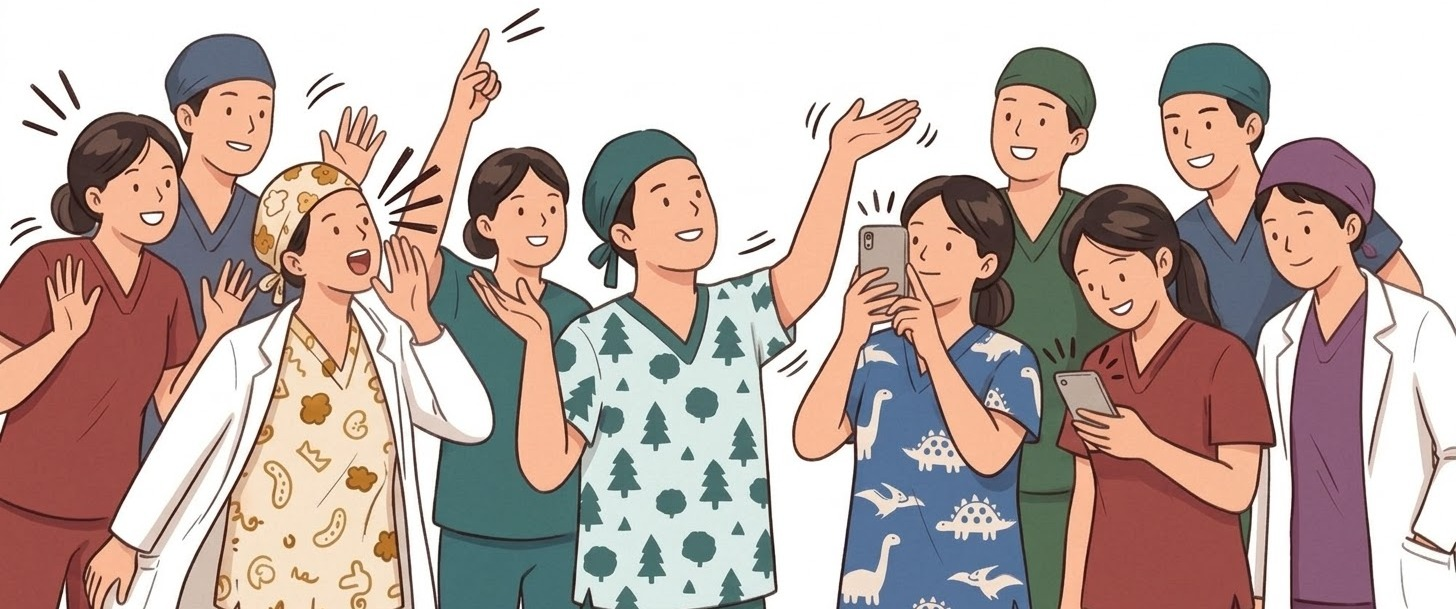
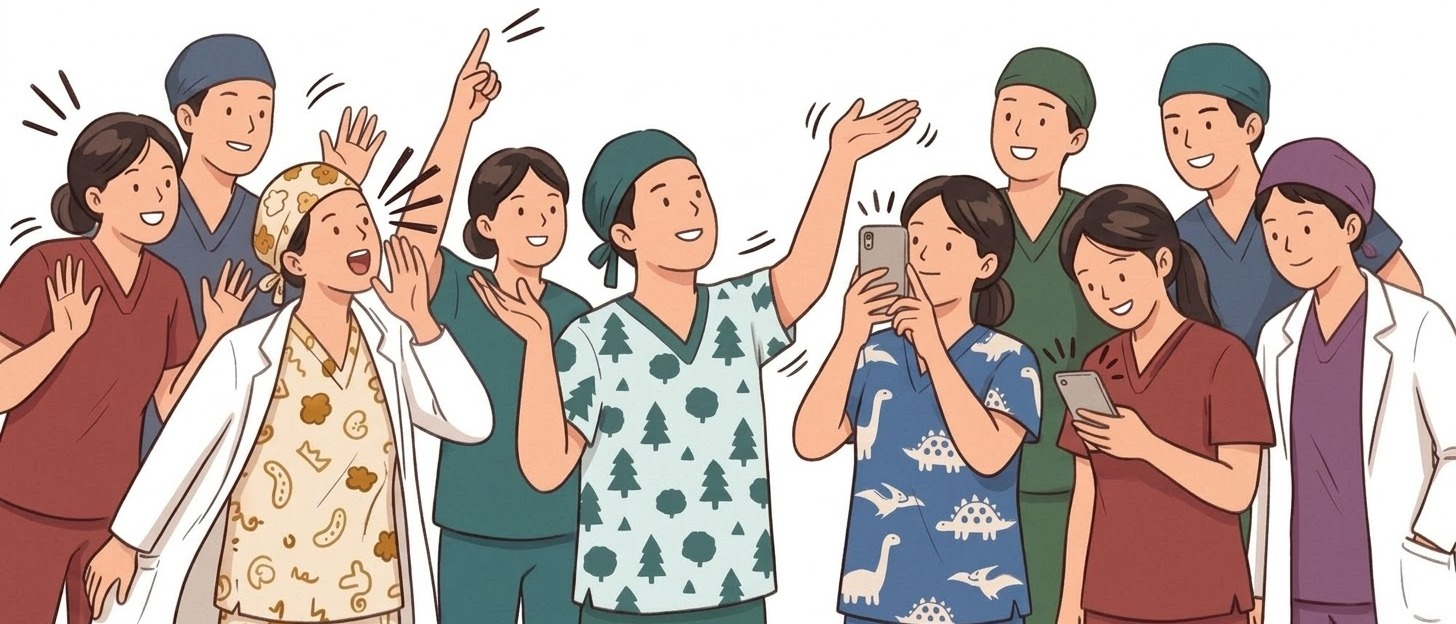
立牌：@fafa070 和碼之間扣掉透明的靜區，QR 因此走到貼齊
使用者：「間距比上面多一點　可以再縮看看」。那一段有 4.75 mm 是碼的
四格靜區（透明、規範不可收），margin 上看不到它。ID下 改成看得到的
間距、CSS 自己扣掉靜區，省下來的正好讓碼長到 43.9 mm ＝ 那一行的寬度。
插圖那一條從 41.0 長到 42.0 mm，重裁 1456×624。

Claude-Session: https://claude.ai/code/session_015pws33pweH9W1p24QXdbUV

diff --git a/preview/line-stand/index.html b/preview/line-stand/index.html
@@ -54,11 +54,11 @@ code{font-size:.86em;background:#dfe3e4;border-radius:4px;padding:.05em .35em}
    ⚠⚠ 底下那一條是**相鄰兄弟**選擇器 —— 它蓋掉 .qr 自己的 .04，所以多這一行實際只花
    .035 + 1.5×.038 + .018 − .04 ＝ 卡寬的 7.0%（面板每次印）。 */
 .card .cue.id{margin-top:calc(var(--cw) * 0.005)}
-.card .cue.id + .qr{margin-top:calc(var(--cw) * 0.002)}
+.card .cue.id + .qr{margin-top:calc(var(--cw) * -0.04355)}
 /* ⚠⚠ QR 一律 calc(--cw * k) 不可以用百分比（參照會變成父層那一欄）。
    ⚠⚠⚠ 案那幾張擺的是**真的那顆碼**（drafts/channels/qr/ 複製過來的，一個像素都沒有重畫）；
    現況那一張刻意維持灰色佔位方塊 —— 它是照片的逐字對照，畫上新設計的碼就不是對照了。 */
-.card .qr{width:calc(var(--cw) * 0.509);aspect-ratio:1;margin-top:calc(var(--cw) * .04);
+.card .qr{width:calc(var(--cw) * 0.54506);aspect-ratio:1;margin-top:calc(var(--cw) * .04);
   height:auto;display:block;border-radius:3px}
 .card .qr.ph{background:repeating-linear-gradient(45deg,#dcdcdc 0 6px,#ececec 6px 12px);
   display:flex;align-items:center;justify-content:center}
@@ -177,7 +177,7 @@ code{font-size:.86em;background:#dfe3e4;border-radius:4px;padding:.05em .35em}
   <div class="cue id" style="font-size:calc(var(--cw) * 0.038)">@fafa070</div>
   <img class="qr" src="qr-line.svg" width="45" height="45" alt="芳仁牙醫診所 LINE 官方帳號的 QR code">
   
-  <img class="illus" src="illus.jpg" width="1456" height="609" alt="一群芳仁牙醫的醫事人員擠在一起，有人揮手、有人指著上方喊、有人舉著手機">
+  <img class="illus" src="illus.jpg" width="1456" height="624" alt="一群芳仁牙醫的醫事人員擠在一起，有人揮手、有人指著上方喊、有人舉著手機">
   
 </div>
 <div class="note"><p><b>這幾行是使用者 2026-09-16 逐字寫的</b>（第一行和我們擬的一案撞在一起，那一案已經拿掉了）。同一天他指定四件：「約診前」改成「<b>看</b>診前」、<b>字級照 Ⓕ</b>、<b>把「再也不怕忘記看診時間，」那一行拿掉</b>（它原本和最後一行是同一句、斷在那個逗號上），以及<b>把後面兩行的驚嘆號拿掉</b>（「上面兩段文字的驚嘆號拿掉」）。</p>
